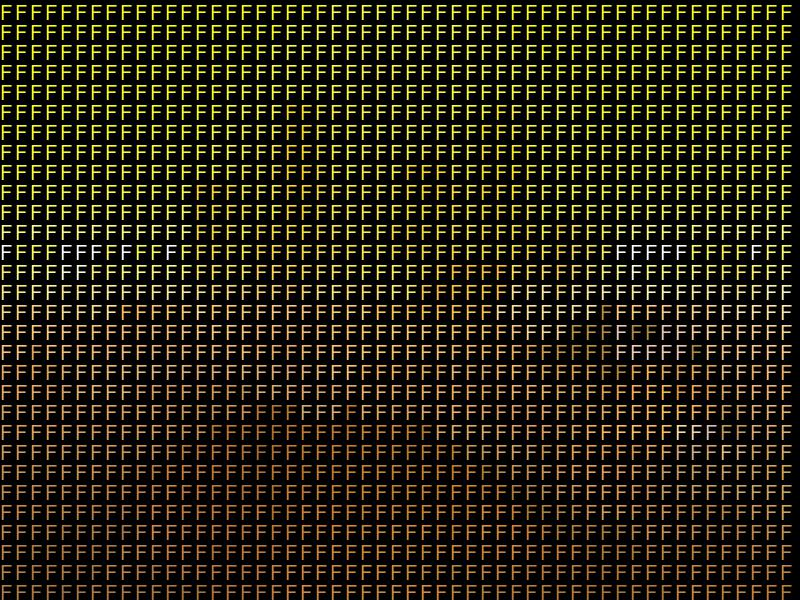
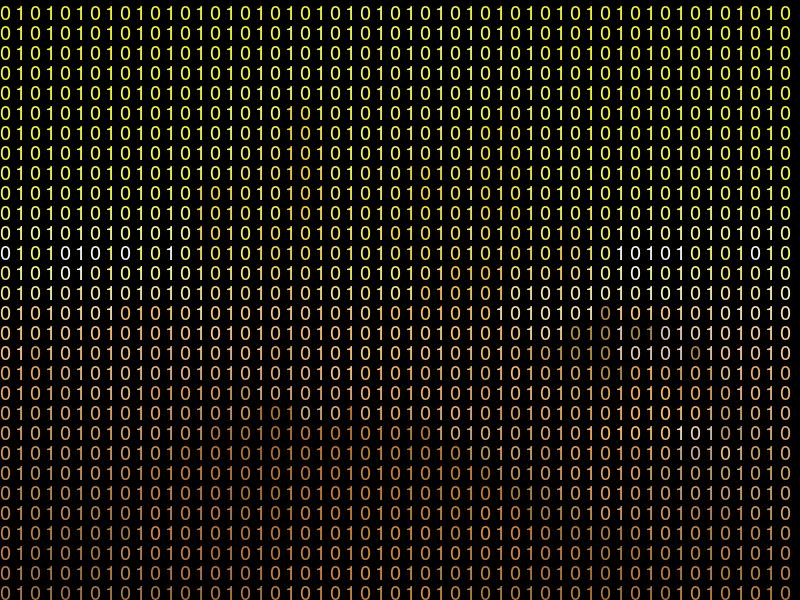
Draw 0s and 1s

diff --git a/index.js b/index.js
@@ -105,7 +105,7 @@ getPixels("scene.png", function (err, pixels) {
          const color = letterColors[i - 1][j - 1];
 
          outputImage.fill(`rgba(${color[0]}, ${color[1]}, ${color[2]}, ${color[3] - 255})`)
-            .drawText((j - 1) * 15, 20 * i, "F");
+            .drawText((j - 1) * 15, 20 * i,  j % 2 === 0 ? '1' : '0');
       }
    }
 
@@ -113,5 +113,7 @@ getPixels("scene.png", function (err, pixels) {
       if (err) {
          console.log('err', err);
       }
+
+      console.log('Image created successfully');
    });
 });
